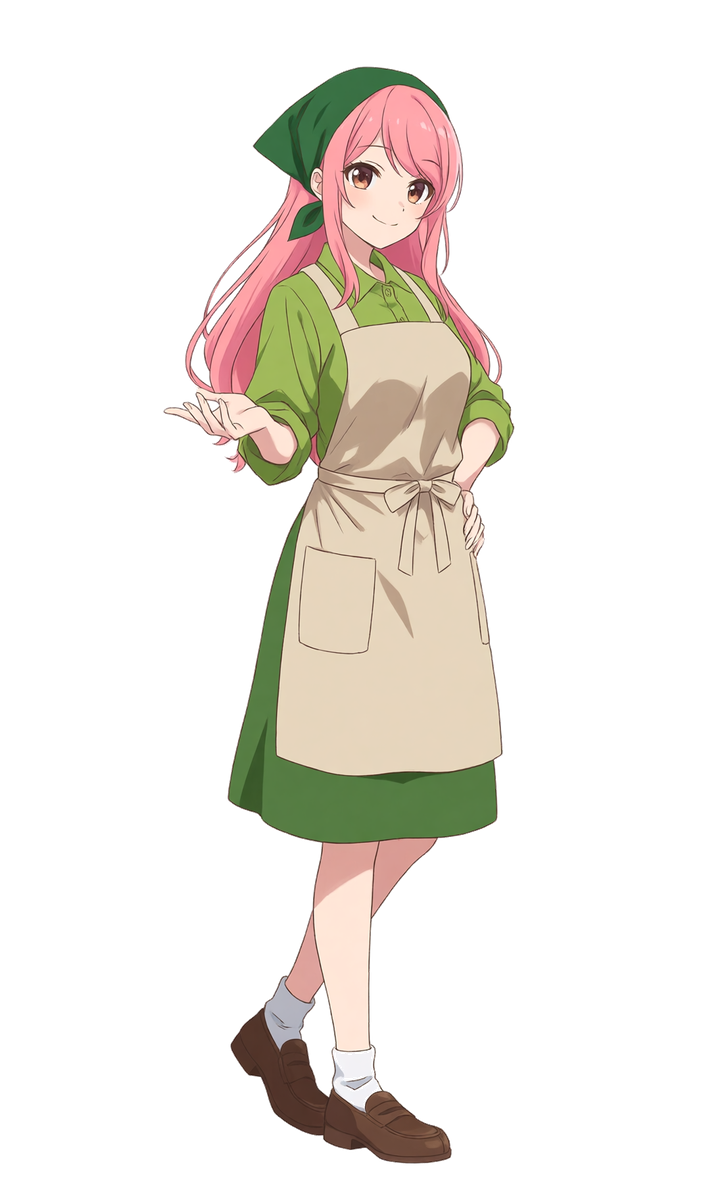
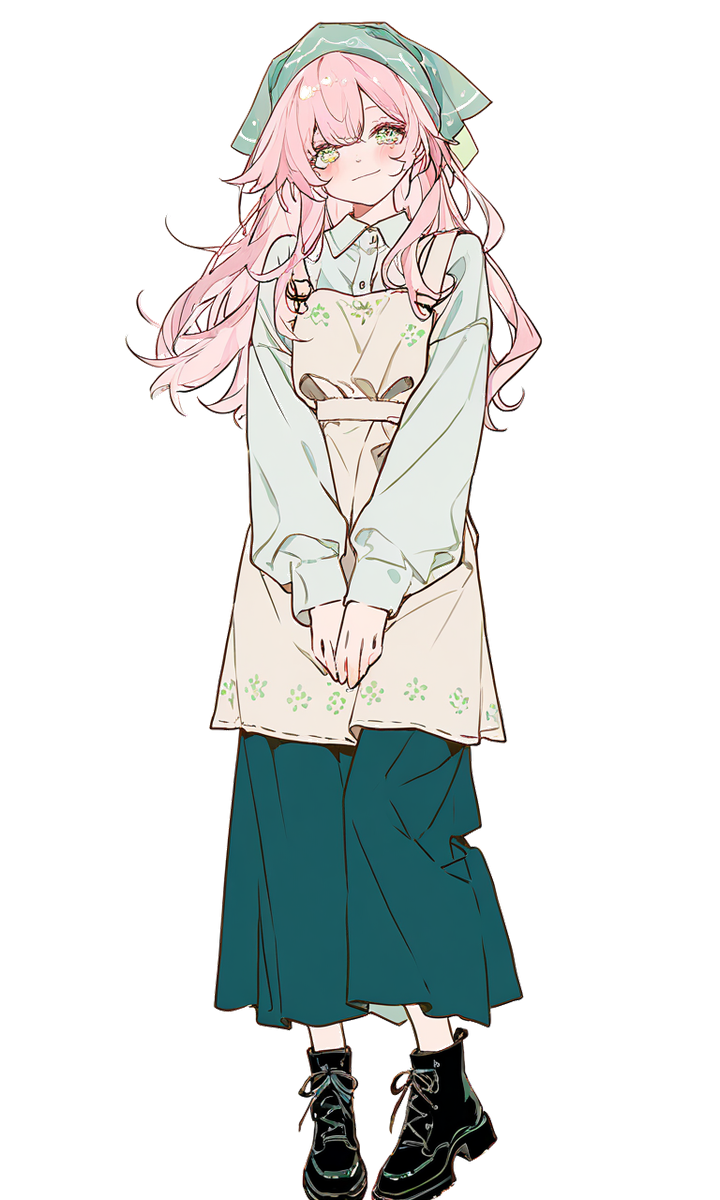
/admin の編集画面（Sveltia CMS）と自動ビルド、ヘッダーの絵を差し替え、X のリンク
- admin/: 編集画面と設定（content/ を GitHub ログインで編集）。ログインの仲介の設定手順は admin/SETUP.md
- .github/workflows/build.yml: content が変わったら node build.js を実行して公開ページを push
- 更新履歴を content/news.json に（編集画面で扱える形）
- ヘッダーの店長の絵を差し替え。SNS は X と GitHub

diff --git a/build.js b/build.js
@@ -1,6 +1,6 @@
 // サイトを content/ から組み立てる。使い方: node build.js
 //   content/site.json        … サイト名・このサイトについて・店長・SNS
-//   content/news.md          … 更新履歴（「- 日付 | 内容」を 1 行ずつ）
+//   content/news.json        … 更新履歴（items: [{date, text}]。新しい順に並べ直す）
 //   content/tools/*.md       … ツール（1 つ 1 ファイル。先頭に --- で囲んだ項目、その下に本文）
 //   content/blog/*.md        … 制作ブログ（同上。date 順）
 //   content/works/*.md       … 投稿作品（同上。image が一覧の絵）
@@ -60,7 +60,7 @@ function loadDir(dir) {
 
 // ---- 読み込み ----
 const site = JSON.parse(read(C("site.json")));
-const news = read(C("news.md")).split("\n").map(l => l.match(/^-\s*(\S+)\s*\|\s*(.*)$/)).filter(Boolean).map(m => ({ date: m[1], text: m[2] }));
+const news = JSON.parse(read(C("news.json"))).items.slice().sort((a, b) => (b.date || "").localeCompare(a.date || ""));
 const tools = loadDir("tools").sort((a, b) => Number(a.meta.order || 99) - Number(b.meta.order || 99));
 const blog = loadDir("blog").sort((a, b) => (b.meta.date || "").localeCompare(a.meta.date || ""));
 const works = loadDir("works").sort((a, b) => (b.meta.date || "").localeCompare(a.meta.date || ""));

diff --git a/index.html b/index.html
@@ -46,7 +46,7 @@
     <div>
       <strong>店長 茶谷 萌香</strong>
       <p>茶＝緑、萌＝ピンク。AI でツールと作品を作っています。使ってみた感想や要望は SNS からどうぞ。</p>
-      <div class="links"><a href="#" target="_blank" rel="noopener">YouTube</a><a href="#" target="_blank" rel="noopener">X</a><a href="https://github.com/coconuts-milk" target="_blank" rel="noopener">GitHub</a></div>
+      <div class="links"><a href="https://x.com/grenades_bomb" target="_blank" rel="noopener">X</a><a href="https://github.com/coconuts-milk" target="_blank" rel="noopener">GitHub</a></div>
     </div>
   </div>
 

diff --git a/admin/index.html b/admin/index.html
@@ -1,0 +1,12 @@
+<!DOCTYPE html>
+<html lang="ja">
+<head>
+  <meta charset="UTF-8">
+  <meta name="viewport" content="width=device-width, initial-scale=1.0">
+  <meta name="robots" content="noindex">
+  <title>編集画面 | 萌香の憩いCAFE</title>
+  <!-- 管理人専用の編集画面（Sveltia CMS）。GitHub でログインして content/ を編集すると、自動でページが作り直される -->
+  <script src="https://unpkg.com/@sveltia/cms/dist/sveltia-cms.js" type="module"></script>
+</head>
+<body></body>
+</html>

diff --git a/admin/SETUP.md b/admin/SETUP.md
@@ -1,0 +1,38 @@
+# 編集画面（/admin）を使えるようにする手順
+
+編集画面は https://chatani-moka-site.pages.dev/admin/ にあります。開くと GitHub でログインする画面が出ます。
+ログインの仲介役（小さなプログラム）を自分の Cloudflare に 1 つ置く必要があります。一度やれば終わりです。
+
+## 1. GitHub に「OAuth App」を作る（ログインの許可を出す側）
+
+1. https://github.com/settings/developers → 「OAuth Apps」→「New OAuth App」
+2. 次のように入れる
+   - Application name: `chatani-moka-site admin`（何でもよい）
+   - Homepage URL: `https://chatani-moka-site.pages.dev`
+   - Authorization callback URL: `https://sveltia-cms-auth.<あなたのサブドメイン>.workers.dev/callback`
+     （2 で作る Worker の URL + `/callback`。先に 2 をやって URL を確かめてから戻ってきても OK）
+3. 「Register application」→ 出てきた **Client ID** を控える → 「Generate a new client secret」→ **Client secret** を控える（この画面でしか見られない）
+
+## 2. Cloudflare Workers に仲介役を置く
+
+1. https://github.com/sveltia/sveltia-cms-auth を開き、README の「Deploy to Cloudflare Workers」ボタンを押す
+2. Cloudflare の画面でそのままデプロイする。出来た Worker の URL（`https://sveltia-cms-auth.〜.workers.dev`）を控える
+3. Worker の「設定」→「変数とシークレット」に次を入れる
+   - `GITHUB_CLIENT_ID` = 1 で控えた Client ID
+   - `GITHUB_CLIENT_SECRET` = 1 で控えた Client secret
+   - `ALLOWED_DOMAINS` = `chatani-moka-site.pages.dev`
+4. 1 の callback URL が Worker の URL と合っているか確かめる
+
+## 3. 設定ファイルに Worker の URL を書く
+
+`admin/config.yml` の `base_url:` を Worker の URL に書き換えて push する（私に URL を伝えてもらえれば、こちらで書きます）。
+
+## 4. 使う
+
+https://chatani-moka-site.pages.dev/admin/ を開く → 「GitHub でログイン」→ 左の一覧から直したいものを選ぶ → 保存。
+保存すると GitHub に記録され、数十秒〜1 分ほどで公開ページが作り直されます（GitHub Actions が `node build.js` を実行して結果を push し、Cloudflare Pages が公開する）。
+
+## インサイト（訪問数）
+
+Cloudflare のダッシュボード → Workers & Pages → chatani-moka-site → 「指標（Metrics）」→ 「Web Analytics を有効にする」を押す。
+これだけでサイトに計測用の小さなスクリプトが自動で入り、同じ画面で訪問数・ページ・参照元が見られます（無料・Cookie なし）。

diff --git a/README.md b/README.md
@@ -1,0 +1,26 @@
+# 萌香の憩いCAFE（chatani-moka-site）
+
+https://chatani-moka-site.pages.dev/ （Cloudflare Pages。GitHub の main に push すると自動で公開）
+
+## 更新のしかた
+
+### 編集画面から（ふだんはこちら）
+https://chatani-moka-site.pages.dev/admin/ を開き、GitHub でログインして編集 → 保存。数十秒〜1 分で公開ページに反映される。
+初回の設定は `admin/SETUP.md`。
+
+### 手で直す
+`content/` のファイルを直して `node build.js` を実行し、push する（GitHub Actions も同じことをするので、`node build.js` を忘れても公開はされる）。
+
+| したいこと | 触るファイル |
+|---|---|
+| 更新履歴を足す | `content/news.json` の items に `{ "date": "...", "text": "..." }` |
+| ツールの説明を直す | `content/tools/<名前>.md` |
+| ブログを書く | `content/blog/<日付>-<名前>.md` |
+| 作品を載せる | `content/works/<日付>-<名前>.md` と画像 |
+| サイト名・紹介文・店長・SNS | `content/site.json` |
+| 店長の絵 | `img/chara.png`（全身・ヘッダー）、`img/chara_alt.png`（顔・丸アイコン） |
+
+## 仕組み
+- `build.js` が `content/` を読んで `index.html`（タブ付き 1 枚）、`tools/*.html`、`blog/*.html` を作る。外部ライブラリなし。
+- 見た目は `style.css`、タブ切り替え・花びら・スクロールの動きは `site.js`。
+- `.github/workflows/build.yml` が content の変更ごとに `node build.js` を実行して結果を push する。
